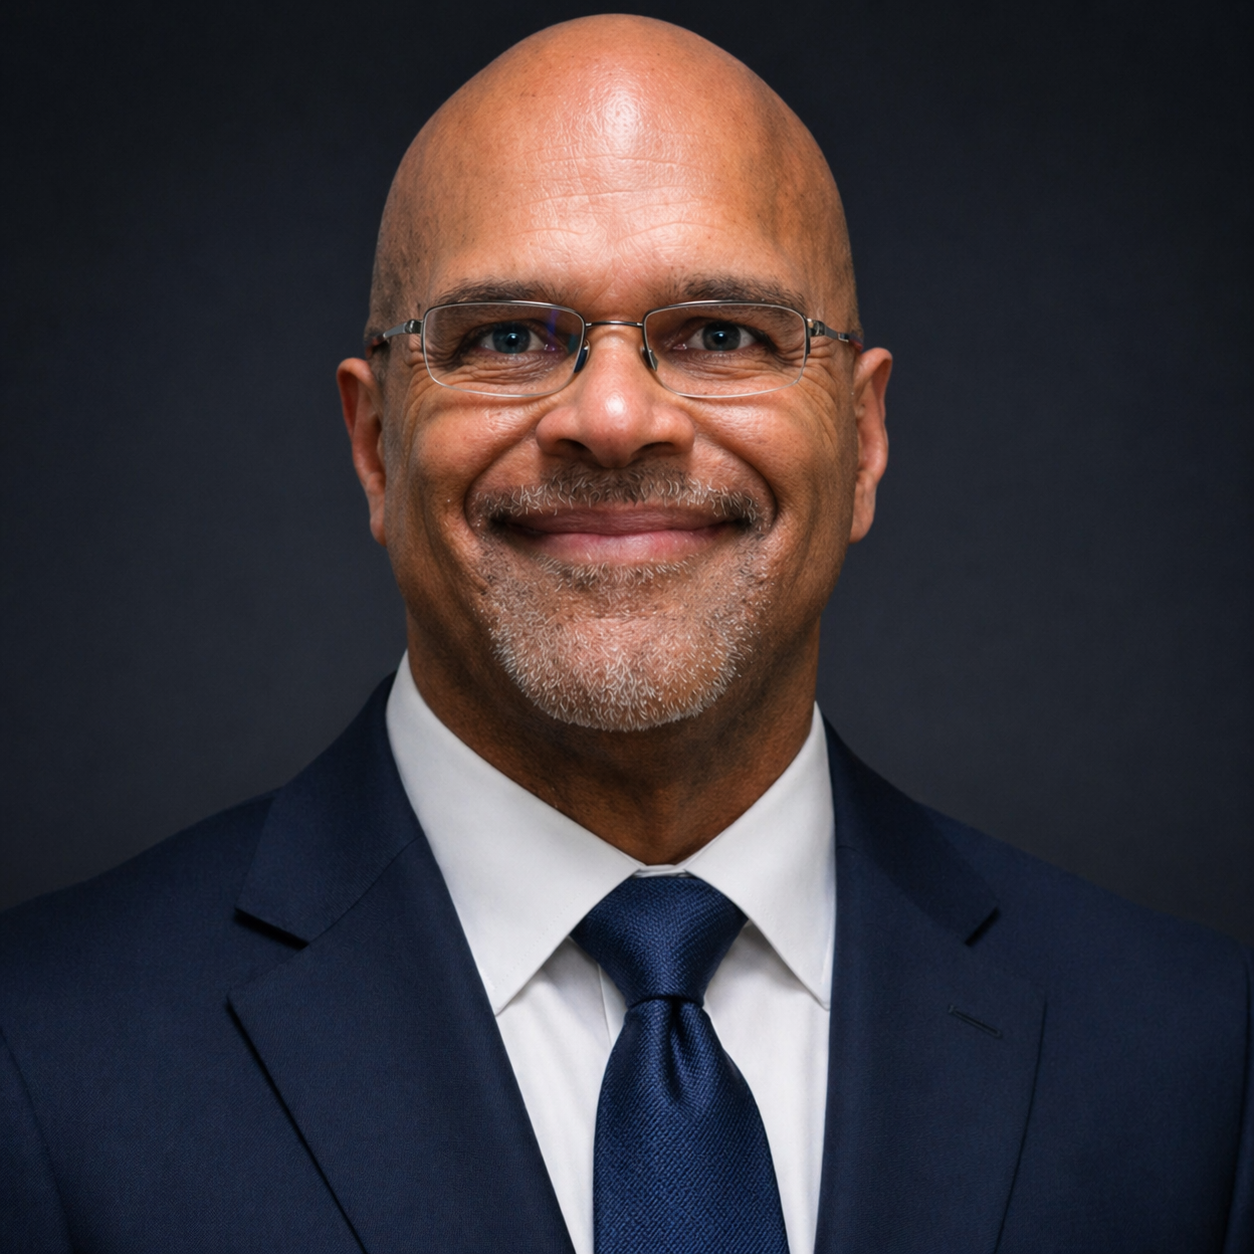
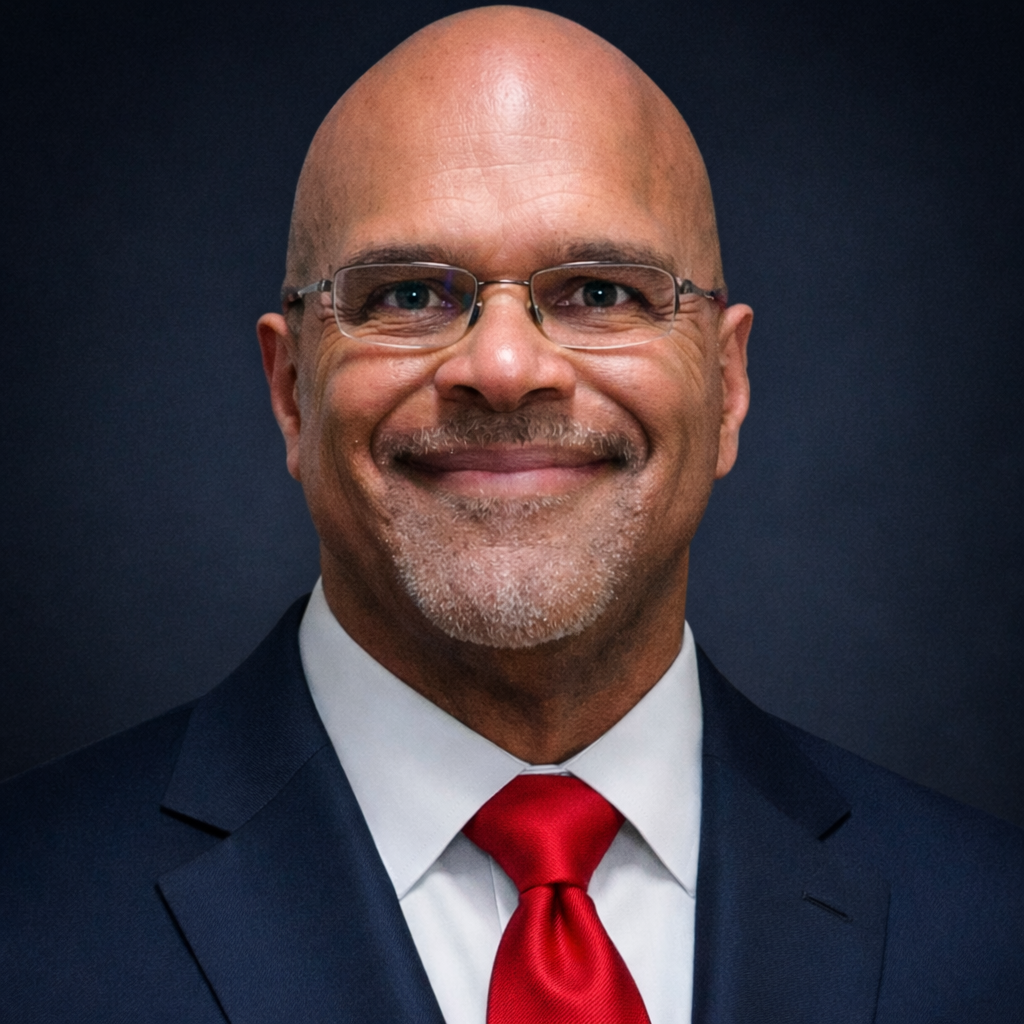
Add: Create professional About Me page with Eric Outcalt's background and philosophy

diff --git a/public/about.html b/public/about.html
@@ -1,0 +1,210 @@
+<!DOCTYPE html>
+<html lang="en">
+<head>
+    <meta charset="UTF-8">
+    <meta name="viewport" content="width=device-width, initial-scale=1.0">
+    <title>About Eric Outcalt | Outcalt Advisory Group</title>
+    <link rel="stylesheet" href="style.css">
+    <style>
+        .about-hero {
+            display: grid;
+            grid-template-columns: 1fr 1fr;
+            gap: 4rem;
+            align-items: center;
+            padding: 4rem 0;
+            max-width: 1200px;
+            margin: 0 auto;
+        }
+
+        .about-image {
+            display: flex;
+            justify-content: center;
+        }
+
+        .about-image img {
+            width: 100%;
+            max-width: 400px;
+            border-radius: 8px;
+            box-shadow: 0 20px 60px rgba(0, 0, 0, 0.3);
+        }
+
+        .about-content h1 {
+            font-size: 2.5rem;
+            margin-bottom: 1rem;
+            line-height: 1.2;
+        }
+
+        .about-content h2 {
+            font-size: 1.5rem;
+            margin-top: 2rem;
+            margin-bottom: 1rem;
+            color: var(--gold2);
+        }
+
+        .about-content p {
+            font-size: 1rem;
+            line-height: 1.8;
+            margin-bottom: 1.5rem;
+            color: var(--text-color);
+        }
+
+        .about-content ul {
+            list-style: none;
+            padding: 0;
+            margin: 1.5rem 0;
+        }
+
+        .about-content ul li {
+            padding: 0.5rem 0;
+            padding-left: 1.5rem;
+            position: relative;
+            color: var(--text-color);
+        }
+
+        .about-content ul li:before {
+            content: "▪";
+            position: absolute;
+            left: 0;
+            color: var(--gold2);
+            font-weight: bold;
+        }
+
+        @media (max-width: 768px) {
+            .about-hero {
+                grid-template-columns: 1fr;
+                gap: 2rem;
+                padding: 2rem 1rem;
+            }
+
+            .about-content h1 {
+                font-size: 2rem;
+            }
+
+            .about-image img {
+                max-width: 300px;
+            }
+        }
+    </style>
+</head>
+<body>
+    <header>
+        <nav class="navbar">
+            <div class="nav-container">
+                <a href="/" class="logo">Outcalt Advisory Group</a>
+                <ul class="nav-links">
+                    <li><a href="/">Home</a></li>
+                    <li><a href="/about.html" class="active">About</a></li>
+                    <li><a href="#contact">Contact</a></li>
+                </ul>
+            </div>
+        </nav>
+    </header>
+
+    <main>
+        <section class="about-hero">
+            <div class="about-image">
+                <img src="/assets/eric-outcalt-headshot.png" alt="Eric Outcalt, Founder of Outcalt Advisory Group">
+            </div>
+            <div class="about-content">
+                <h1>About Outcalt Advisory Group</h1>
+                <h2>Experience Built in Real Negotiations</h2>
+                
+                <p>Outcalt Advisory Group was founded on a simple principle:</p>
+                
+                <p><strong>Most opportunities do not fail because they lack value. They fail because that value is never structured in a way decision-makers can act on.</strong></p>
+                
+                <p>We specialize in <strong>Strategic Acquisition Architecture</strong> — the process of transforming ideas, intellectual property, innovations, and businesses into clearly positioned opportunities designed for serious evaluation, negotiation, and execution.</p>
+                
+                <p>Our role is not to provide generic consulting or surface-level recommendations.</p>
+                
+                <p>Our role is to help clients create the strategic clarity, buyer logic, positioning assets, and execution frameworks required to move opportunities forward with confidence and authority.</p>
+            </div>
+        </section>
+
+        <section style="max-width: 1200px; margin: 4rem auto; padding: 0 1rem;">
+            <h2 style="font-size: 2rem; margin-bottom: 2rem;">40+ Years of Real-World Deal Experience</h2>
+            
+            <p>Eric Outcalt brings more than four decades of experience in negotiation, sales leadership, financial structuring, operational management, and high-stakes business transactions.</p>
+            
+            <p>Over the course of his career, he managed automotive dealerships and led complex sales and finance operations in one of the most competitive negotiation-driven industries in the country. Working directly with consumers, lenders, executives, and ownership groups provided a deep understanding of how decisions are made, how opportunities are evaluated, and why many otherwise valuable deals never materialize.</p>
+            
+            <p>That experience shaped the foundation of Outcalt Advisory Group.</p>
+            
+            <p><strong>Because successful transactions are rarely driven by enthusiasm alone.</strong></p>
+            
+            <p>They are driven by:</p>
+            <ul>
+                <li>Positioning</li>
+                <li>Clarity</li>
+                <li>Strategic framing</li>
+                <li>The ability to reduce uncertainty for decision-makers</li>
+            </ul>
+            
+            <p>Years spent inside real negotiation environments created a practical understanding of buyer psychology, operational inefficiencies, value perception, and execution strategy that traditional consulting firms often lack.</p>
+        </section>
+
+        <section style="max-width: 1200px; margin: 4rem auto; padding: 0 1rem;">
+            <h2 style="font-size: 2rem; margin-bottom: 2rem;">Why Outcalt Advisory Group Exists</h2>
+            
+            <p>Throughout his career, Eric repeatedly observed the same pattern:</p>
+            
+            <ul>
+                <li>Strong opportunities stalled because they were poorly communicated, improperly positioned, or introduced to the market before the foundational structure was in place.</li>
+                <li>Innovators focused on technology but failed to frame commercial relevance.</li>
+                <li>Business owners approached exit conversations before properly preparing the business for evaluation.</li>
+                <li>Complex opportunities were presented without a clear acquisition narrative or buyer ecosystem strategy.</li>
+            </ul>
+            
+            <p>The result was predictable:</p>
+            <ul>
+                <li>Reduced leverage</li>
+                <li>Lower perceived value</li>
+                <li>Extended timelines</li>
+                <li>Or complete loss of momentum</li>
+            </ul>
+            
+            <p><strong>Outcalt Advisory Group was created to address that gap.</strong></p>
+        </section>
+
+        <section style="max-width: 1200px; margin: 4rem auto; padding: 0 1rem;">
+            <h2 style="font-size: 2rem; margin-bottom: 2rem;">Beyond Consulting</h2>
+            
+            <p>We do not believe meaningful opportunities are advanced through generic advice alone.</p>
+            
+            <p><strong>They move forward through structure.</strong></p>
+            
+            <p>That includes:</p>
+            <ul>
+                <li>Strategic positioning</li>
+                <li>Acquisition narrative development</li>
+                <li>Buyer logic alignment</li>
+                <li>Commercialization framing</li>
+                <li>Market preparation</li>
+                <li>Execution planning</li>
+            </ul>
+            
+            <p>Whether the objective is intellectual property commercialization, strategic partnership development, acquisition positioning, or business exit preparation, our focus remains the same:</p>
+            
+            <p><strong>Build the assets that help serious opportunities get taken seriously.</strong></p>
+        </section>
+
+        <section style="max-width: 1200px; margin: 4rem auto; padding: 0 1rem; margin-bottom: 4rem;">
+            <h2 style="font-size: 2rem; margin-bottom: 2rem;">Our Philosophy</h2>
+            
+            <p><strong>Markets do not reward assumptions. They reward clarity.</strong></p>
+            
+            <p>Decision-makers respond to opportunities they can quickly understand, evaluate, and act upon.</p>
+            
+            <p>That is why we focus on transforming complexity into strategic structure — helping clients move beyond abstract potential and toward actionable opportunity.</p>
+            
+            <p>At Outcalt Advisory Group, we are committed to disciplined thinking, practical execution, and strategic positioning designed for real-world outcomes.</p>
+            
+            <p><strong>Because ideas alone do not move deals forward. Structure does.</strong></p>
+        </section>
+    </main>
+
+    <footer>
+        <p>&copy; 2026 Outcalt Advisory Group. All rights reserved.</p>
+    </footer>
+</body>
+</html>